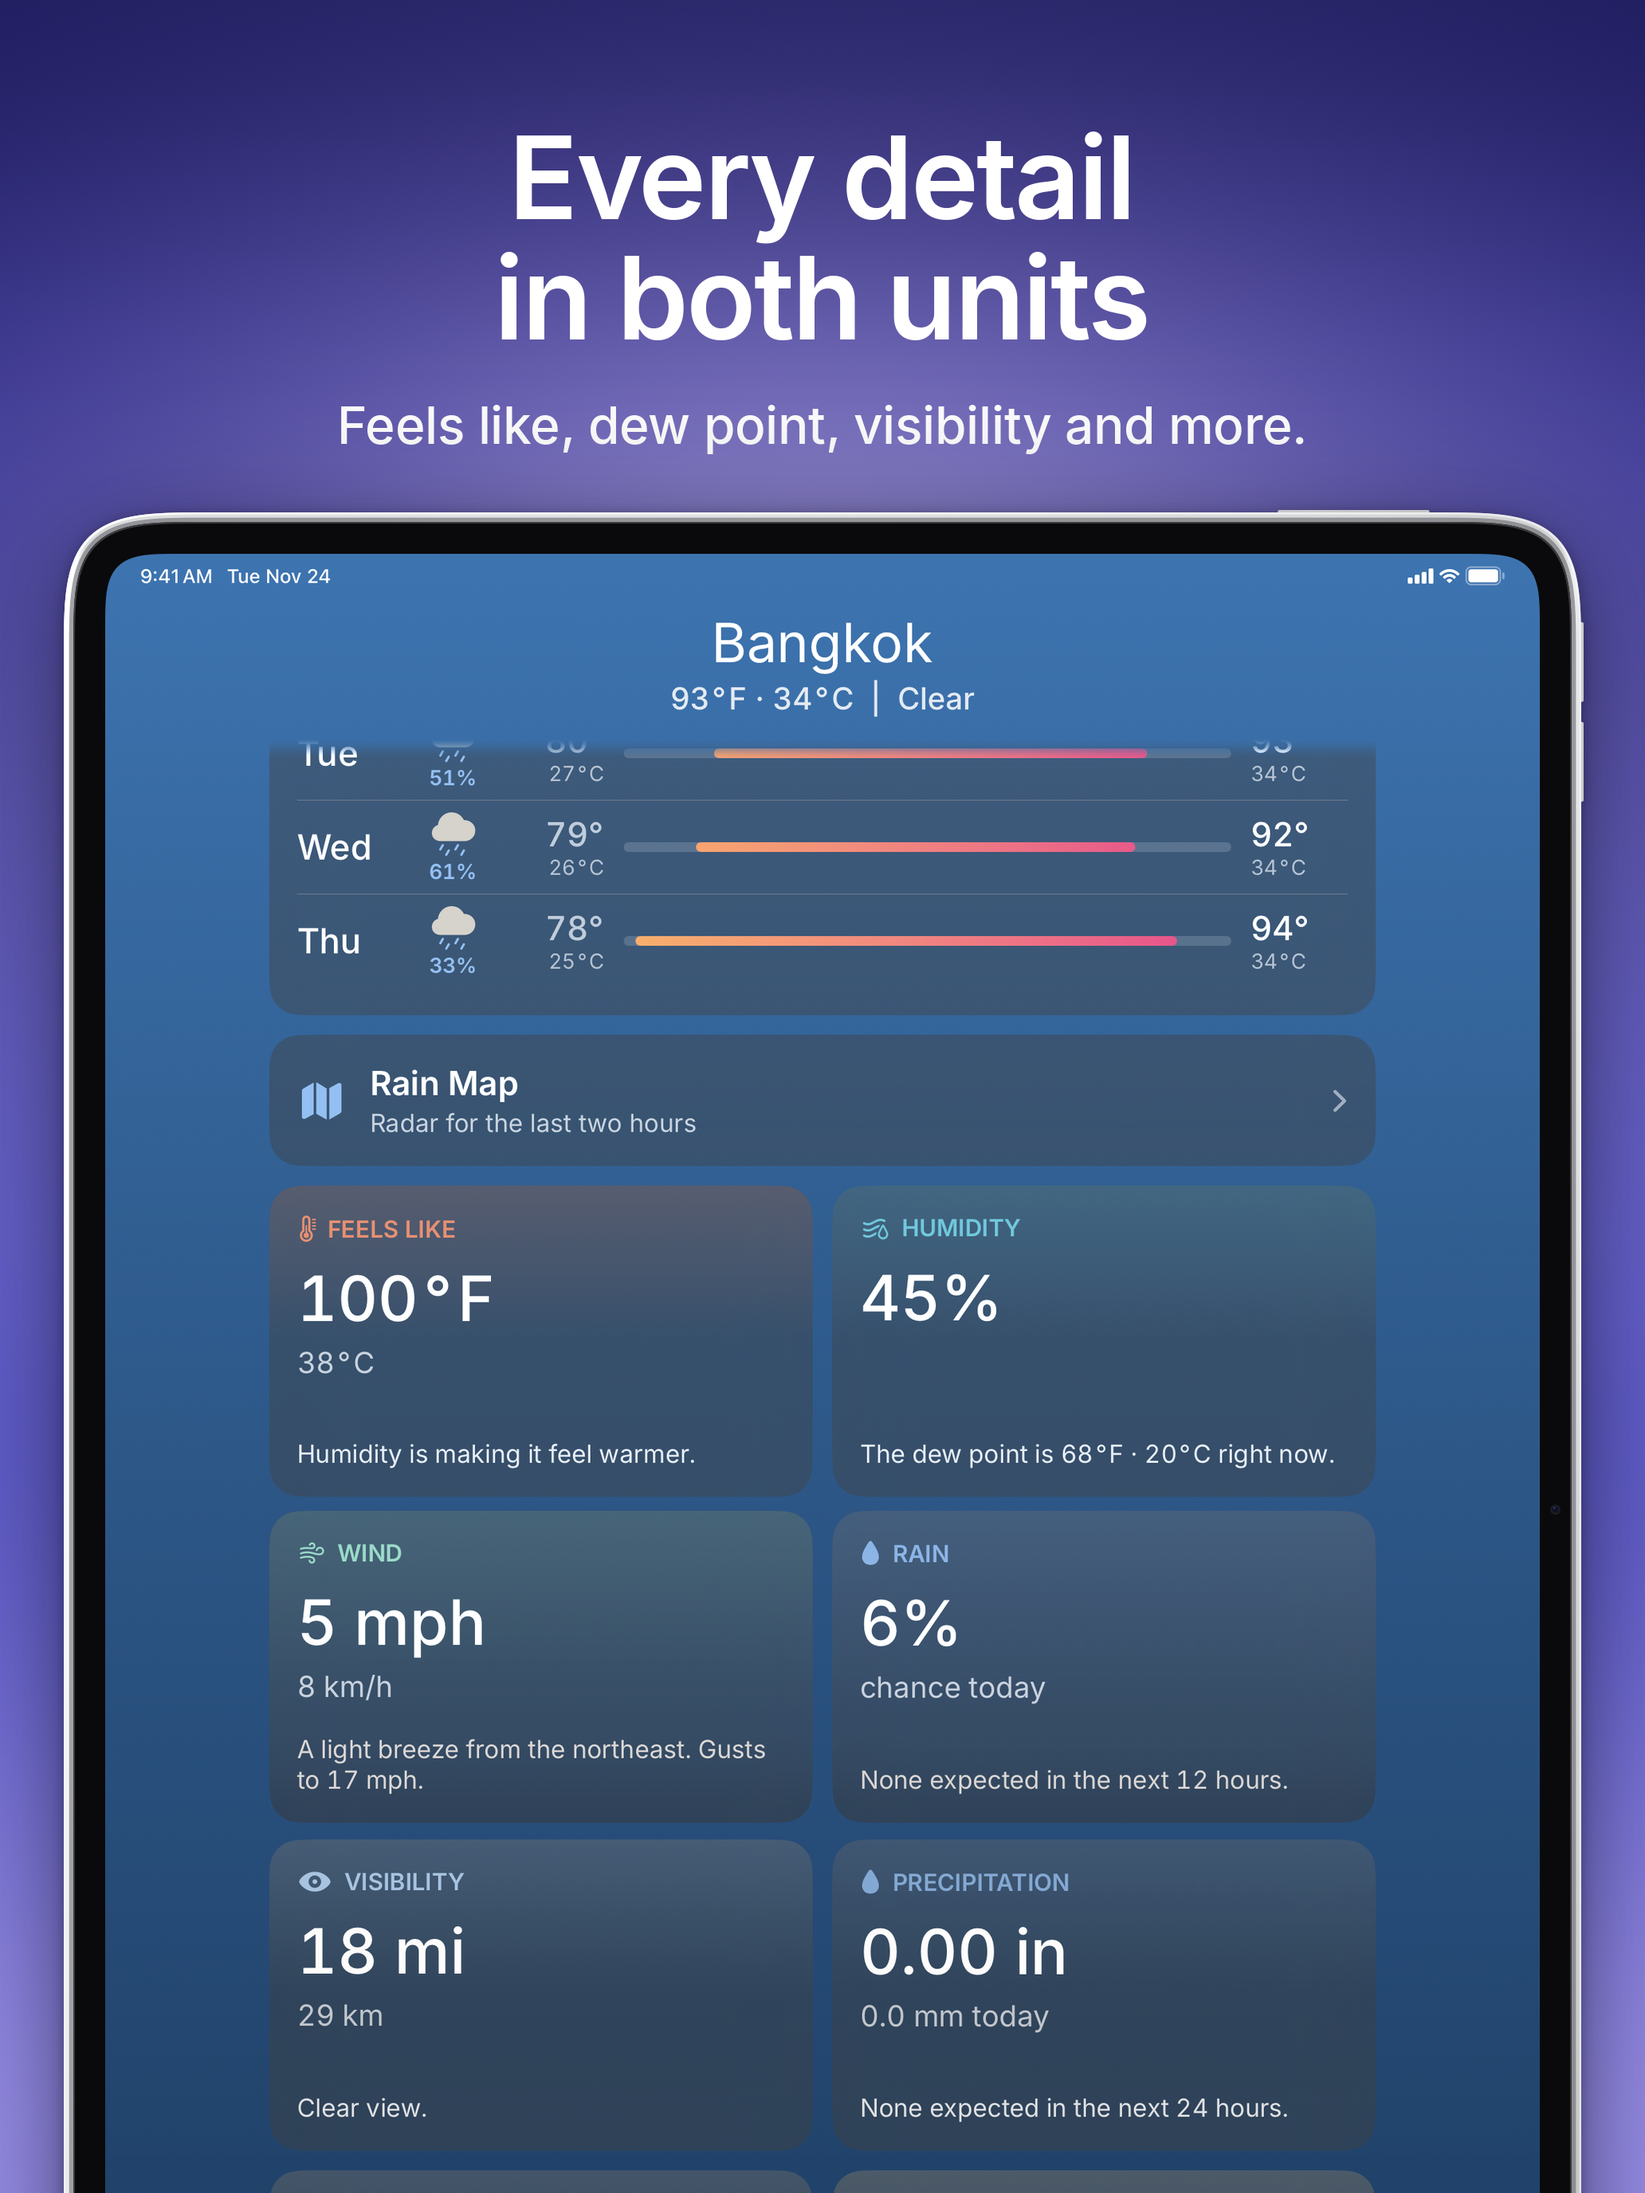
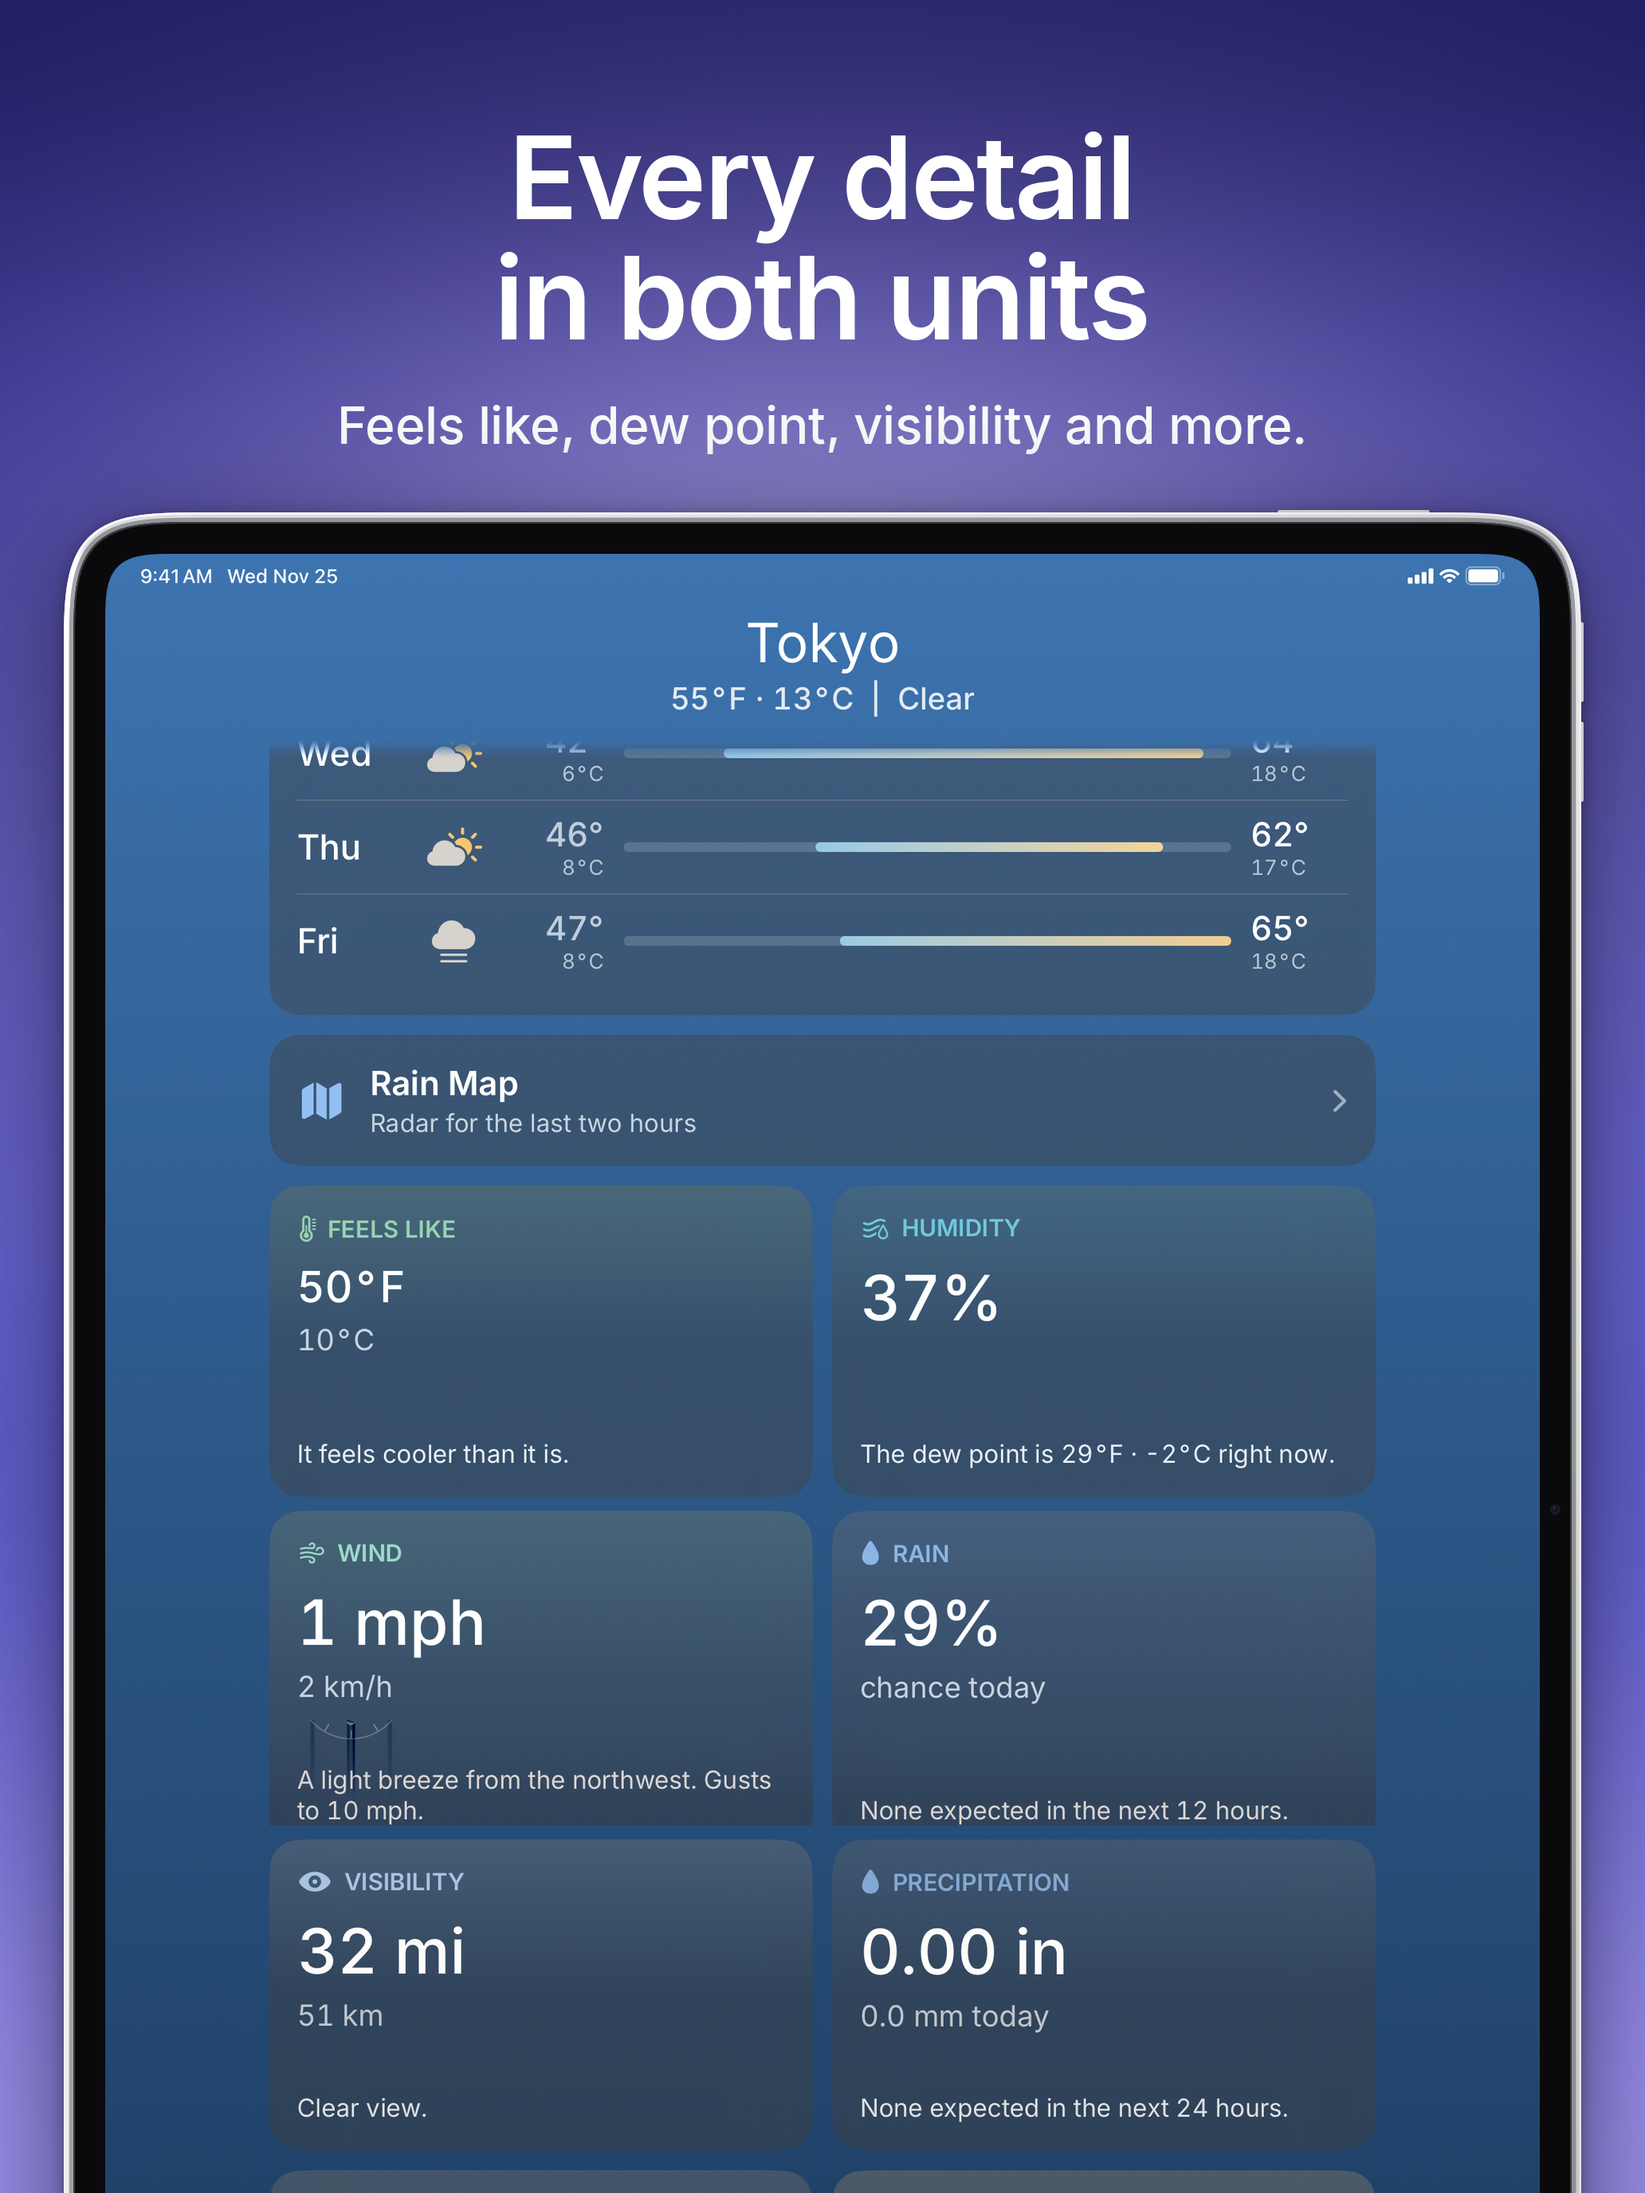
App Store screenshots from the Asia-midday capture (Tokyo, clear)
All fifteen images show the build with the three app fixes. The Mac menu
bar's reading and date now come from the captures' snapshot.

Claude-Session: https://claude.ai/code/session_014XBPgVSosxkwyDptpY7qX5

diff --git a/scripts/make-store-screenshots.py b/scripts/make-store-screenshots.py
@@ -57,8 +57,8 @@ ROOT = os.path.abspath(os.path.join(os.path.dirname(os.path.abspath(__file__)), 
 OUT = os.path.join(ROOT, "appstore", "screenshots")
 FONTS = os.path.join(ROOT, "Resources", "Fonts")
 ICON = os.path.join(ROOT, "Resources", "iOS", "Assets.xcassets", "AppIcon.appiconset", "AppIcon.png")
-DEFAULT_RAW = "/tmp/claude-0/-home-user/d6b2fce6-87e9-5a4e-8aa5-26a3546d263b/scratchpad/raw6"
-DEFAULT_MAC = "/tmp/claude-0/-home-user/d6b2fce6-87e9-5a4e-8aa5-26a3546d263b/scratchpad/rawmac6"
+DEFAULT_RAW = "/tmp/claude-0/-home-user/d6b2fce6-87e9-5a4e-8aa5-26a3546d263b/scratchpad/raw8"
+DEFAULT_MAC = "/tmp/claude-0/-home-user/d6b2fce6-87e9-5a4e-8aa5-26a3546d263b/scratchpad/rawmac8"
 WHITE = (255, 255, 255)
 SUB = (255, 255, 255, 255)   # subhead: solid white (on the sky's dark top stops it is at least 5:1)
 CORAL = (255, 111, 97)       # the icon's degree ring, #FF6F61
@@ -95,7 +95,7 @@ MAC = [
 # Which widget city goes with the app captures: the hero city (Bangkok 93°F / 34°C, H 95 L 79, as on every
 # app page). The small Home Screen widget shows the second city (Mumbai 86°F / 30°C, as in the city list), so
 # the panel shows that each widget can follow a city of its own.
-WIDGET_CITY = "bangkok"
+WIDGET_CITY = "tokyo"
 WIDGET_CITY2 = "mumbai"
 
 # ---------- sources ----------
@@ -1663,6 +1663,36 @@ def status_glyphs(px, kind):
 MENU_H = 48
 
 
+# The Mac menu bar's reading and date come from the captures' store-snapshot.json (the hero city, as the app's
+# menu-bar extra shows it), so they match every screen. Set by main(); the defaults are only placeholders.
+MENU_READING = "93° · 34°"
+MENU_CLOCK = "Tue Nov 24  9:41 AM"
+
+
+def app_round(v):
+    """Rounds half away from zero, as the apps do (TempUnit.value)."""
+    import math
+    return int(math.floor(abs(v) + 0.5)) * (1 if v >= 0 else -1)
+
+
+def read_menu_bar(raw):
+    """Sets MENU_READING and MENU_CLOCK from raw/store-snapshot.json: the first city's reading in °F and °C, and
+    the day the forecast was fetched (Swift dates count seconds from 2001-01-01 UTC)."""
+    global MENU_READING, MENU_CLOCK
+    import datetime
+    import json
+    path = os.path.join(raw, "store-snapshot.json")
+    if not os.path.exists(path):
+        return
+    snap = json.load(open(path))
+    c = snap["cities"][0]
+    f = snap["forecasts"]["%.2f,%.2f" % (c["latitude"], c["longitude"])]
+    t = f["now"]["temperature"]
+    MENU_READING = f"{app_round(t * 9 / 5 + 32)}° · {app_round(t)}°"
+    day = datetime.datetime(2001, 1, 1) + datetime.timedelta(seconds=f["fetchedAt"])
+    MENU_CLOCK = f"{day:%a %b} {day.day}  9:41 AM"
+
+
 def menu_bar(p, extra_open=False, s=1.0):
     """A macOS menu bar across the top of a desktop picture p (2x: 24 pt tall, everything scaled by s for a
     magnified view): the Apple menu, the app's menus, then the status items (the app's '93° · 34°' extra,
@@ -1679,14 +1709,14 @@ def menu_bar(p, extra_open=False, s=1.0):
         ff = fb if i == 0 else f
         d.text((x, bar_h / 2), item, font=ff, fill=(255, 255, 255, 255), anchor="lm")
         x += ff.getlength(item) + 44 * s
-    clock = "Tue Nov 24  9:41 AM"
+    clock = MENU_CLOCK
     x = W - 36 * s - f.getlength(clock)
     d.text((x, bar_h / 2), clock, font=f, fill=(255, 255, 255, 255), anchor="lm")
     for kind in ("control", "battery", "wifi"):
         g = status_glyphs(round(26 * s), kind)
         x -= 40 * s + g.width
         p.alpha_composite(g, (round(x), round((bar_h - g.height) / 2)))
-    reading = "93° · 34°"
+    reading = MENU_READING
     rw = f.getlength(reading)
     item_w = (30 + 10) * s + rw
     x -= 44 * s + item_w
@@ -2080,6 +2110,7 @@ def main():
     a = ap.parse_args()
     only = a.only.split(",")
     os.makedirs(OUT, exist_ok=True)
+    read_menu_bar(a.raw)
     if "iphone" in only:
         for k, im in enumerate(iphone_set(a.raw), 1):
             save(im, f"iphone-{k}.png")
